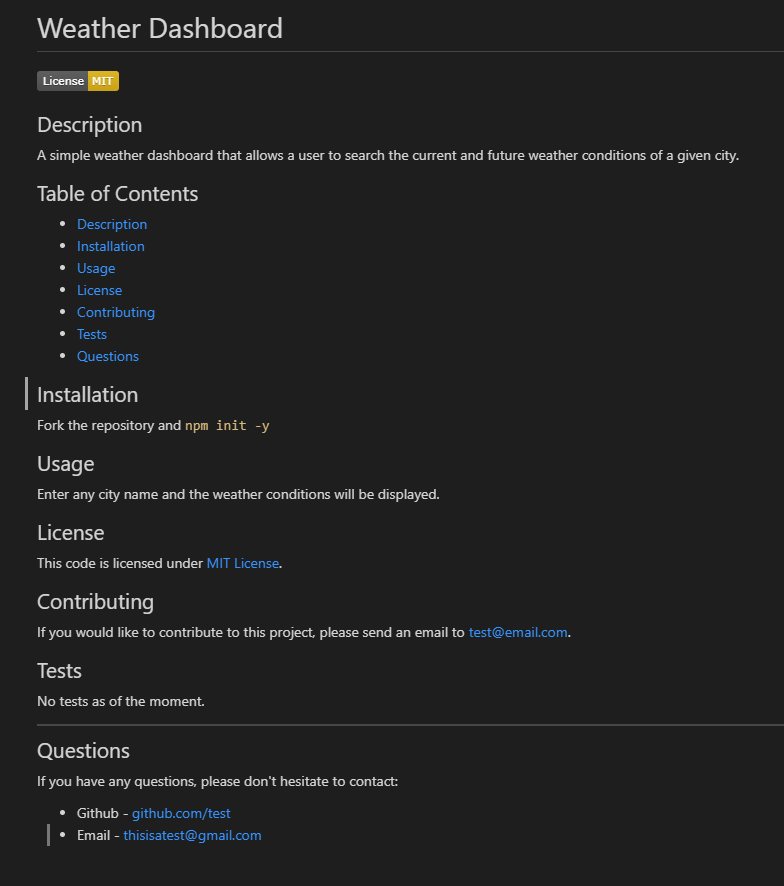
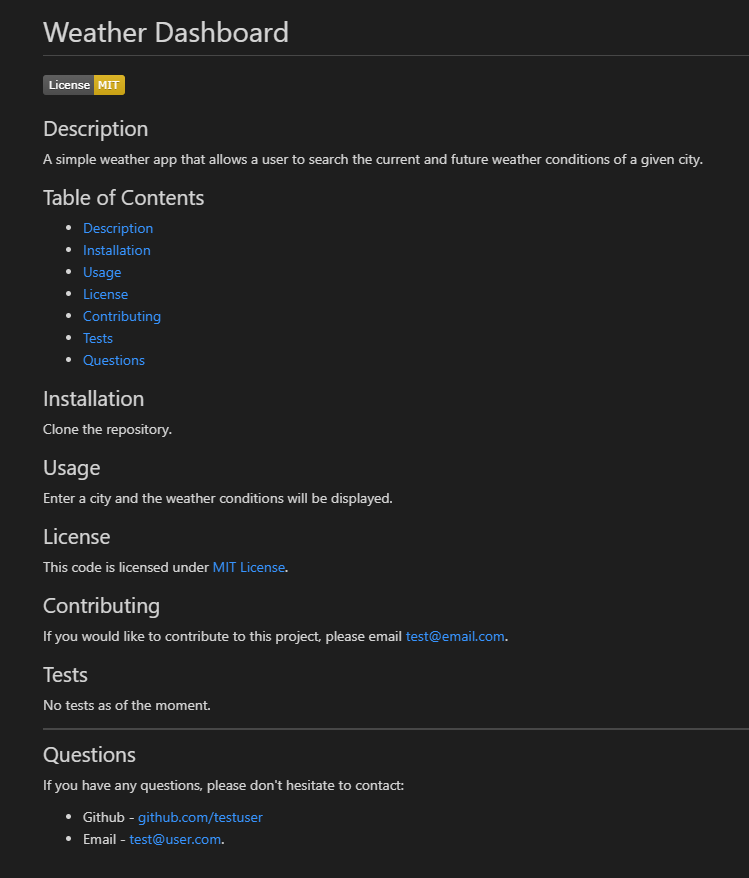
edited walkthrough video and sample test README file

Changed region(s): [[0.0307, 0.0, 0.9519, 0.9841]]

diff --git a/test.md b/test.md
@@ -1,9 +1,9 @@
 # Weather Dashboard
-  ![License](https://img.shields.io/badge/License-BSD_2--Clause-orange.svg) 
+  ![License: MIT](https://img.shields.io/badge/License-MIT-yellow.svg) 
 
 ## Description
 
-A simple weather dashboard that shows the current and future weather conditions of a given city.
+A simple weather app that allows a user to search the current and future weather conditions of a given city.
 
 ## Table of Contents
 * [Description](#description)
@@ -18,13 +18,13 @@ A simple weather dashboard that shows the current and future weather conditions 
 Clone the repository.
 
 ## Usage
-Enter any city name and the weather conditions will be displayed.
+Enter a city and the weather conditions will be displayed.
 
 ## License
-This code is licensed under [BSD 2-Clause](https://opensource.org/licenses/BSD-2-Clause).
+This code is licensed under [MIT License](https://mit-license.org/).
 
 ## Contributing
-If you would like to contribute to this project, please send an email to test@aaa.com.
+If you would like to contribute to this project, please email test@email.com.
 
 ## Tests
 No tests as of the moment.
@@ -34,5 +34,5 @@ No tests as of the moment.
 ## Questions
 If you have any questions, please don't hesitate to contact:
  * Github - [github.com/testuser](https://github.com/testuser)
- * Email - testuser@aaa.com
+ * Email - test@user.com.
 
